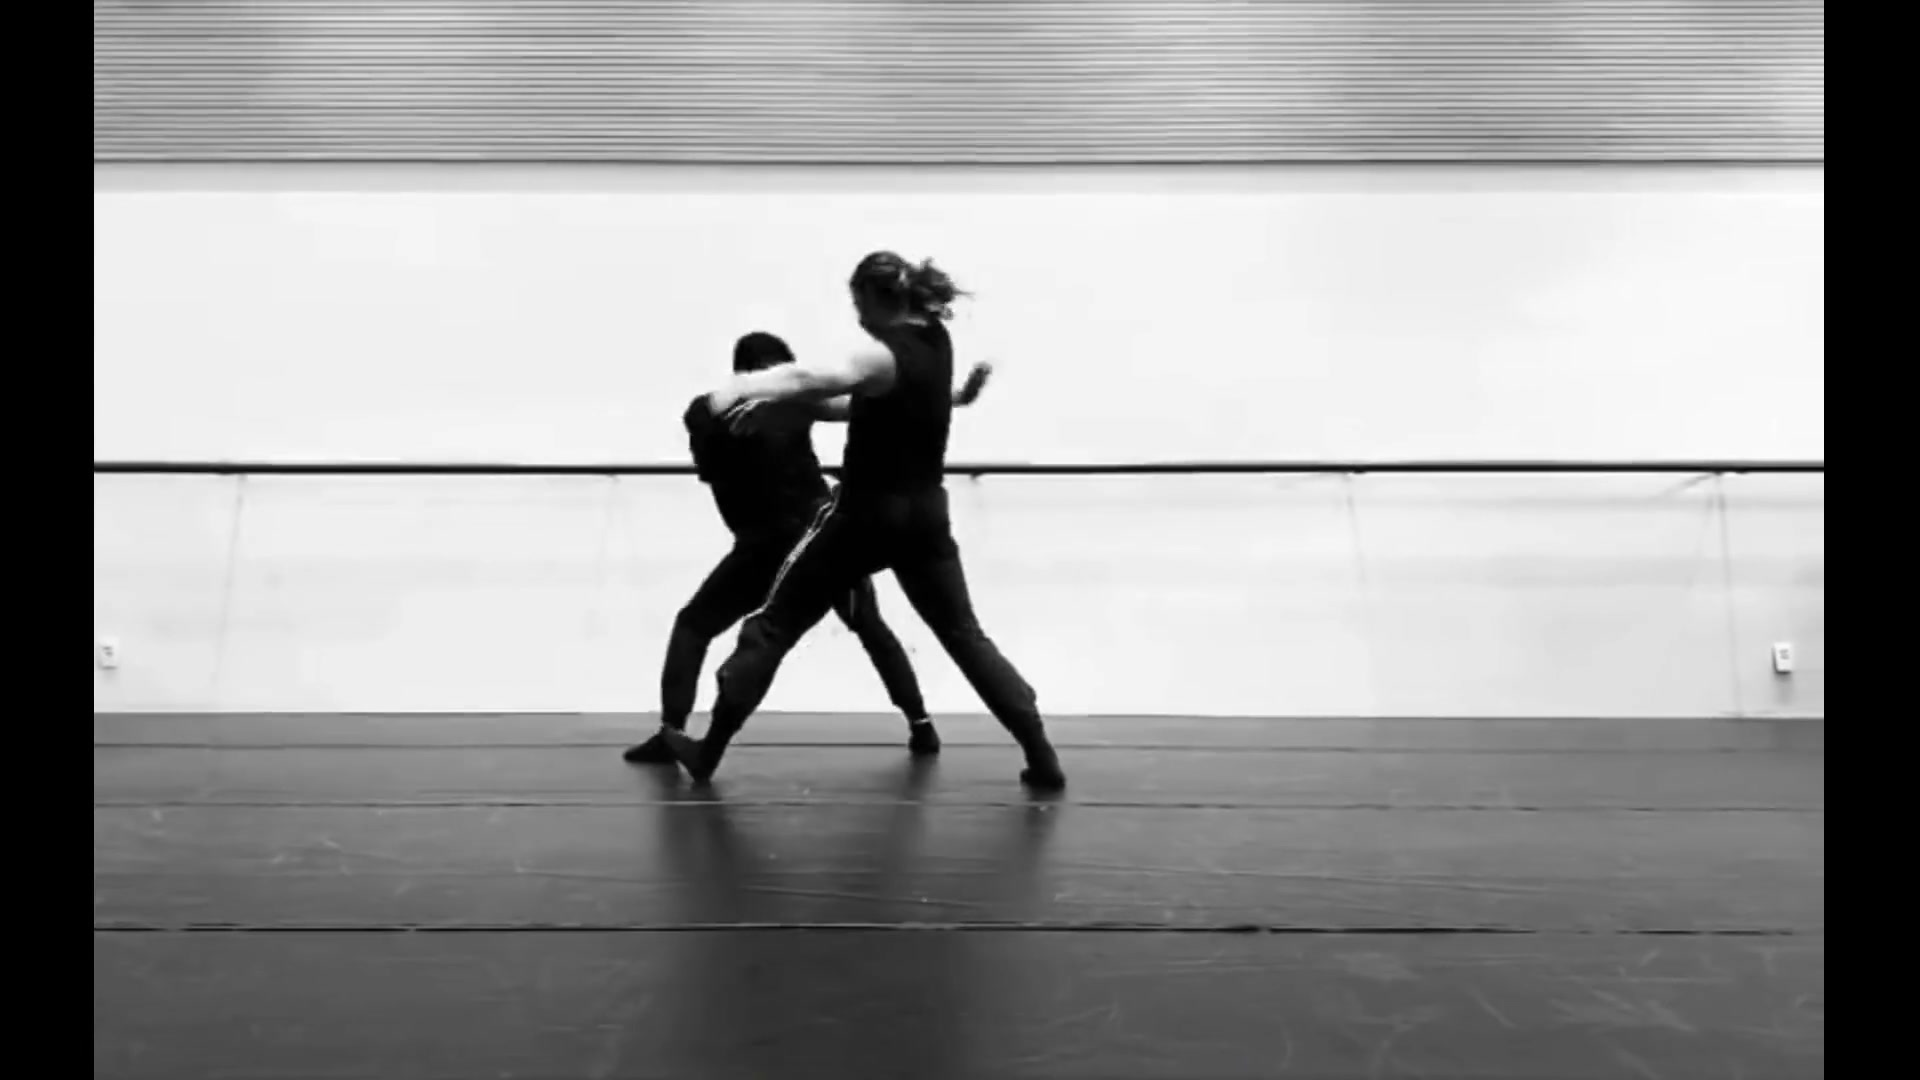
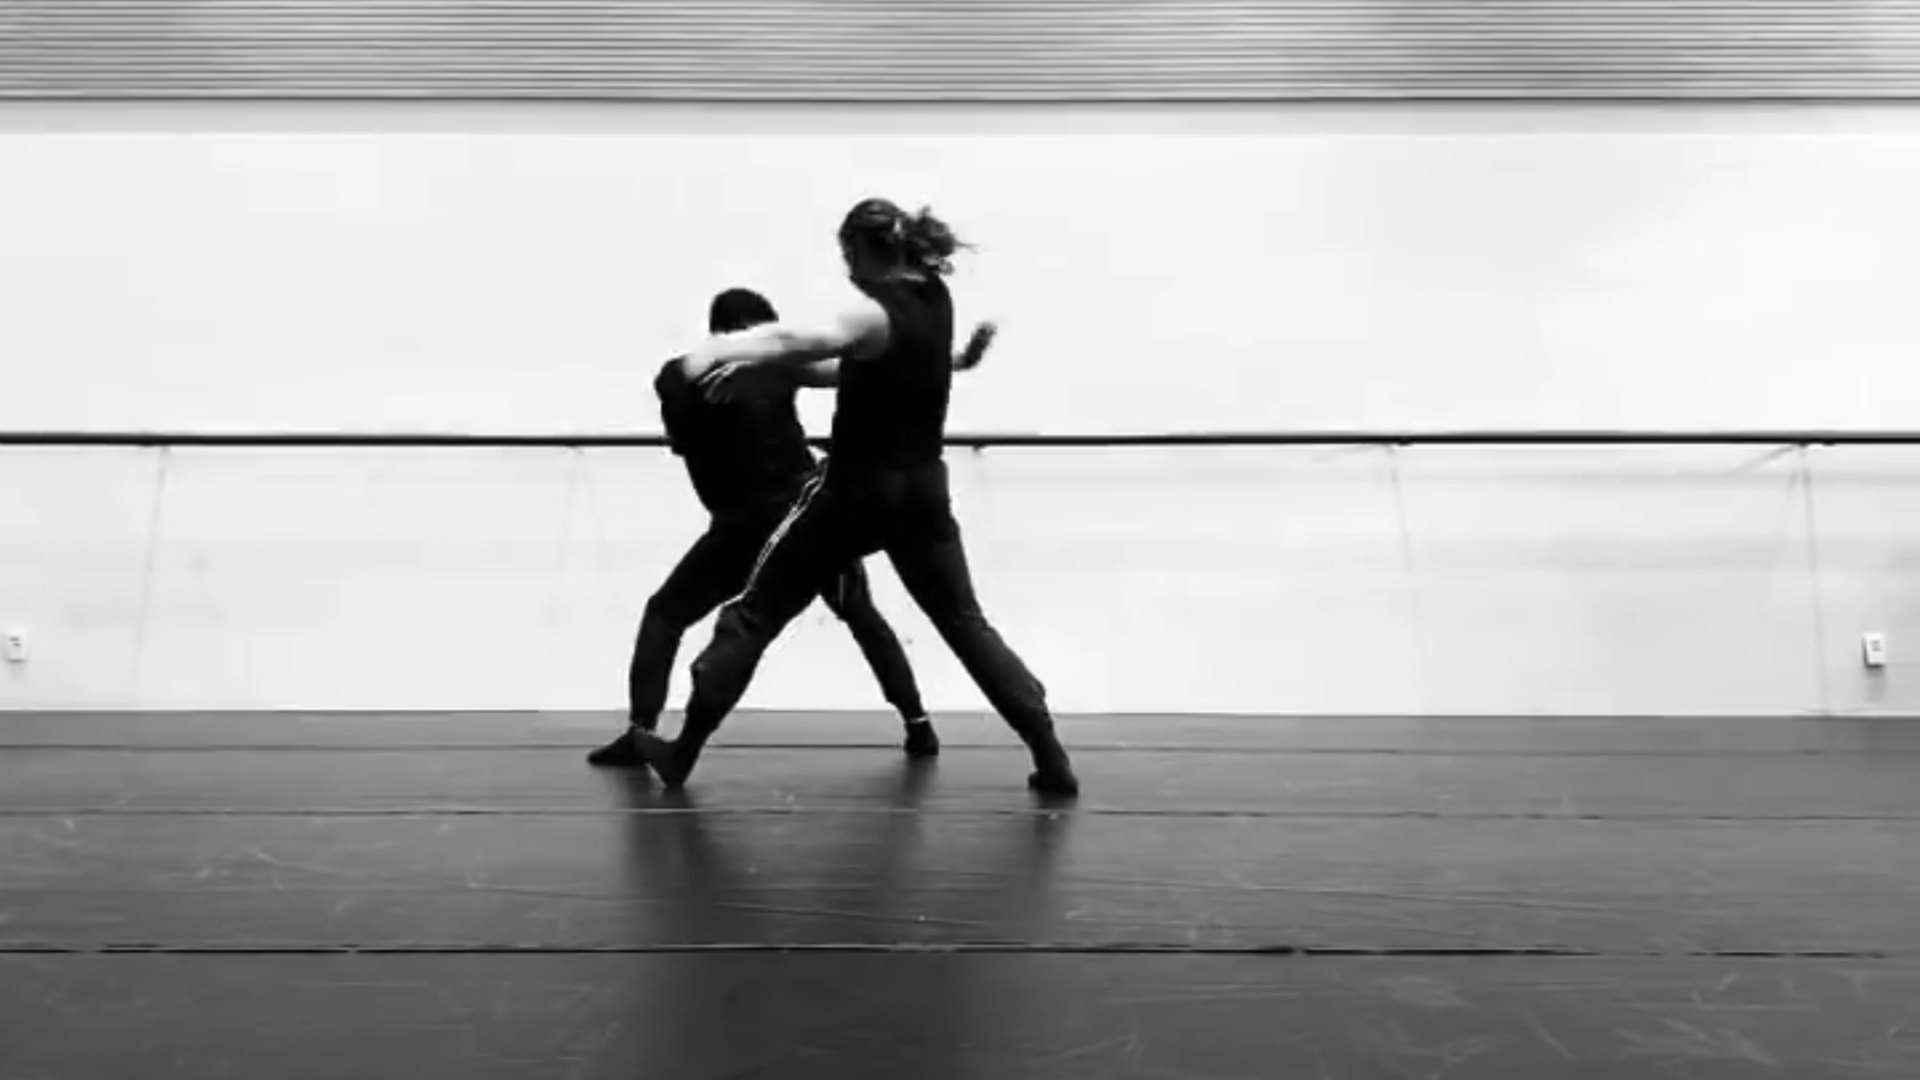
Capa do reel em 16:9 sem barras laterais

diff --git a/index.html b/index.html
@@ -52,7 +52,7 @@
     <section class="reel" id="reel" aria-labelledby="reel-titulo">
       <h2 id="reel-titulo" class="so-leitor">Reel</h2>
       <div class="player">
-        <video id="video" controls playsinline preload="none" poster="media/poster.jpg"
+        <video id="video" controls playsinline preload="none" poster="media/poster.jpg?v=2"
                aria-label="Reel de Marcel Anselmé, com duração de 2 minutos e 19 segundos">
           <source src="media/reel_720p.mp4" type="video/mp4">
           Seu navegador não reproduz vídeo. <a href="media/reel_720p.mp4">Baixe o reel (MP4)</a>.
